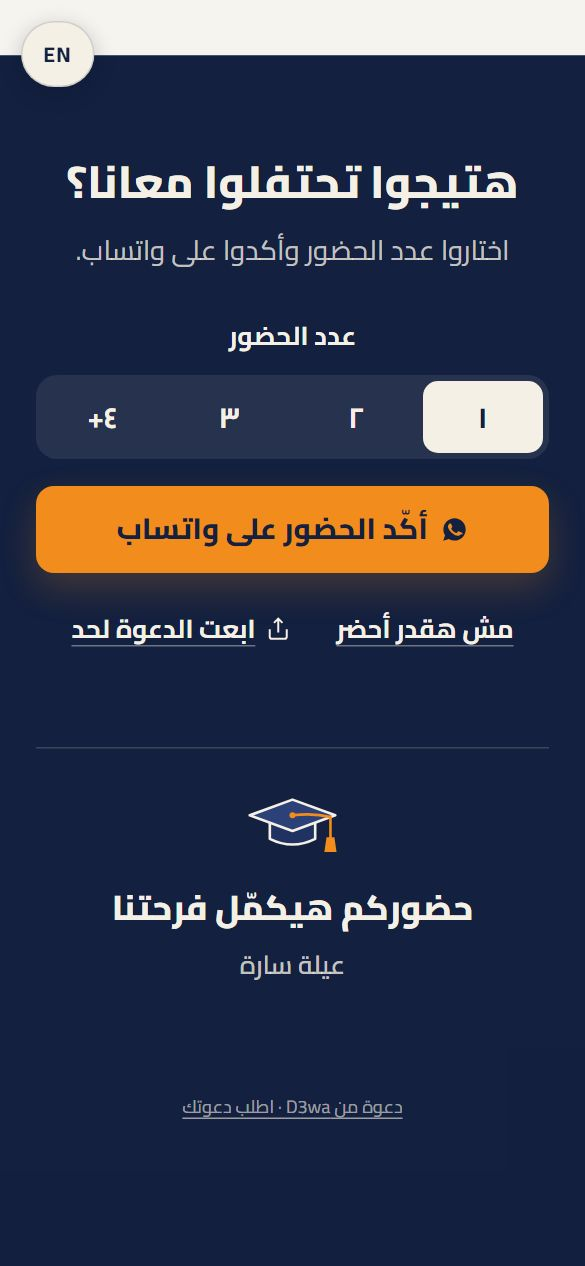
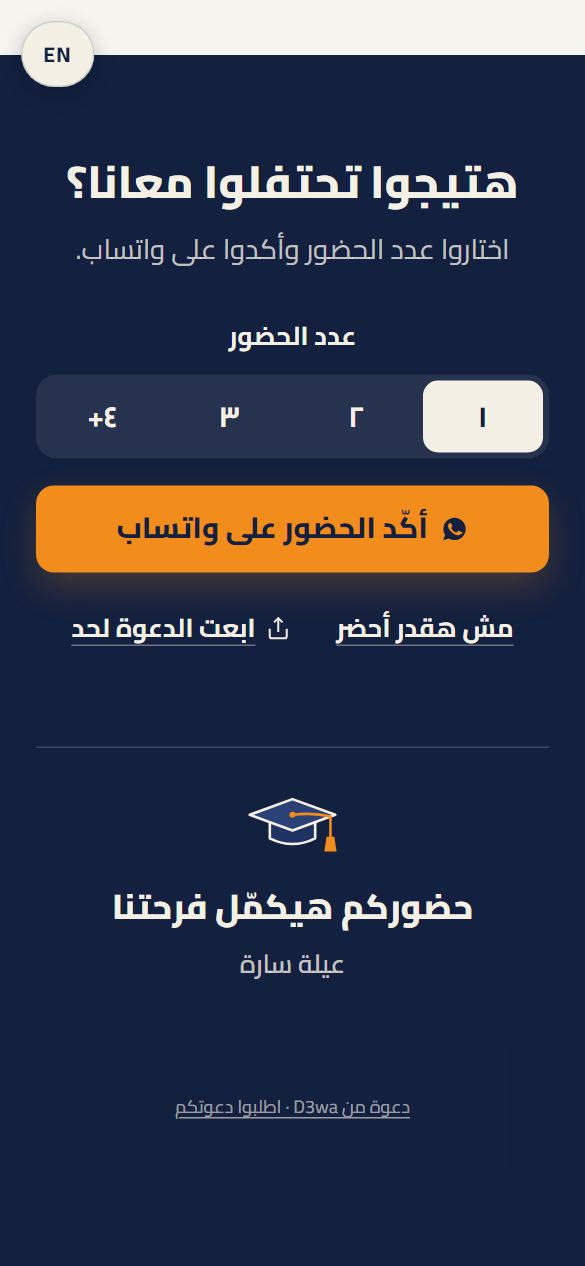
Council round 3 fixes: Arabic summary line, Deco RSVP, small type
From the third council review (Claude Opus, 8.8/10):
- The checkout summary set the whole Arabic hint left-to-right with
  break-all, splitting words; only the URL is LTR now (bdi).
- Deco's yes/no RSVP pair overflowed its card at 390px after the type
  change; it stacks on phones.
- Product pages drop the floating WhatsApp button and use a shorter
  phone on mobile so "Try it here" clears the buy bar; the summary
  divider is one line.
- Every invitation's credit line addresses the couple in the plural,
  like the store. Graduation's Quranic brackets render in Amiri; Deco's
  date gets word spacing; Sahara's small English values move from
  Italiana to Cormorant and its welcome line no longer says sunset at
  8 PM; Garden's hero keeps off the vines; one Rustic line rewrapped.
- Swept all 12 templates in Arabic and English at 360 and 390px: no
  horizontal overflow.

diff --git a/demos/sahara.html b/demos/sahara.html
@@ -346,7 +346,7 @@ html.en .detail .lbl{font-size:15px;font-weight:600;letter-spacing:.04em}
   font-family:var(--ar-display);font-weight:500;
   font-size:clamp(21px,5.8vw,24px);line-height:1.45;color:var(--ink);
 }
-html.en .detail .val{font-family:var(--en-display);font-weight:400;font-size:clamp(21px,5.6vw,24px)}
+html.en .detail .val{font-family:"Cormorant Garamond",Georgia,serif;font-weight:500;font-size:clamp(21px,5.6vw,24px)}
 .detail .val small{display:block;font-family:var(--ar-body);font-weight:400;font-size:16px;color:var(--ink-soft);margin-top:2px}
 html.en .detail .val small{font-family:var(--en-serif);font-style:italic;font-weight:500;font-size:16.5px}
 .card-actions{display:flex;flex-direction:column;gap:10px;margin-top:20px}
@@ -384,7 +384,7 @@ html.en .btn{font-family:var(--en-serif);font-weight:600;font-size:17px;letter-s
 .note{max-width:30em;margin:0 auto}
 .note + .note{margin-top:26px;padding-top:26px;border-top:1px solid rgba(122,122,82,.2)}
 .h3{margin:0;font-family:var(--ar-display);font-weight:600;font-size:21px;line-height:1.5;color:var(--terra-deep)}
-html.en .h3{font-family:var(--en-display);font-weight:400;font-size:22px}
+html.en .h3{font-family:"Cormorant Garamond",Georgia,serif;font-weight:500;font-size:22px}
 .note p{margin:6px 0 0;color:var(--ink-soft)}
 .notes .h2 + .note{margin-top:22px}
 
@@ -794,8 +794,8 @@ html.en .intro-hint{font-family:var(--en-serif);font-weight:600;font-size:18px;l
     <div class="detail">
       <span class="lbl"><span class="t-ar">الوقت</span><span class="t-en">Time</span></span>
       <span class="val">
-        <span class="t-ar">٨:٠٠ مساءً<small>الاستقبال مع الغروب</small></span>
-        <span class="t-en">8:00 PM<small>Welcome at sunset</small></span>
+        <span class="t-ar">٨:٠٠ مساءً<small>الاستقبال على البحر</small></span>
+        <span class="t-en">8:00 PM<small>Welcome by the sea</small></span>
       </span>
     </div>
 
@@ -1390,7 +1390,7 @@ html.en .intro-hint{font-family:var(--en-serif);font-weight:600;font-size:18px;l
 })();
 </script>
 
-<p class="d3wa-credit" style="margin:0;padding:28px 16px 96px;text-align:center;font-size:12px;line-height:1.8;opacity:.6"><a href="../index.html" style="color:inherit;text-decoration:underline;text-underline-offset:3px"><span class="t-ar">دعوة من D3wa · اطلب دعوتك</span><span class="t-en">Invitation by D3wa. Order yours.</span></a></p>
+<p class="d3wa-credit" style="margin:0;padding:28px 16px 96px;text-align:center;font-size:12px;line-height:1.8;opacity:.6"><a href="../index.html" style="color:inherit;text-decoration:underline;text-underline-offset:3px"><span class="t-ar">دعوة من D3wa · اطلبوا دعوتكم</span><span class="t-en">Invitation by D3wa. Order yours.</span></a></p>
 <script src="../assets/demo-bar.js" defer></script>
 </body>
 </html>

diff --git a/demos/grad.html b/demos/grad.html
@@ -22,6 +22,7 @@
 <link rel="preconnect" href="https://fonts.googleapis.com">
 <link rel="preconnect" href="https://fonts.gstatic.com" crossorigin>
 <link rel="stylesheet" href="https://fonts.googleapis.com/css2?family=Cairo:wght@400;600;700;800;900&family=DM+Serif+Display:ital@0;1&display=swap">
+<link rel="stylesheet" href="https://fonts.googleapis.com/css2?family=Amiri&amp;text=%EF%B4%BE%EF%B4%BF&amp;display=swap">
 
 <style>
 /* ───────────  TOKENS — D3-012 Graduation: gown navy, varsity orange  ─────────── */
@@ -175,6 +176,7 @@ html.en .h2{font-family:var(--disp);font-weight:400;font-size:2rem;line-height:1
 .verse .v{text-wrap:balance;font-weight:800;font-size:1.75rem;line-height:1.7;color:var(--navy)}
 html.en .verse .v{font-family:var(--disp);font-style:italic;font-weight:400;font-size:1.875rem;line-height:1.3}
 .verse .src{display:block;margin-top:10px;font-size:.9375rem;font-weight:600;color:var(--ink-2)}
+.verse .orn{font-family:"Amiri",serif;font-weight:400}
 .verse .tick{display:block;width:44px;height:3px;margin:0 auto 22px;border-radius:2px;background:var(--orange)}
 
 /* schedule ledger */
@@ -456,7 +458,7 @@ body.intro-lock{overflow:hidden}
       <span class="tick" aria-hidden="true"></span>
       <blockquote>
         <p class="v">
-          <span class="t-ar">﴿وَقُل رَّبِّ زِدنِي عِلمًا﴾</span>
+          <span class="t-ar"><span class="orn">﴿</span>وَقُل رَّبِّ زِدنِي عِلمًا<span class="orn">﴾</span></span>
           <span class="t-en">“And say: my Lord, increase me in knowledge.”</span>
         </p>
       </blockquote>
@@ -969,7 +971,7 @@ body.intro-lock{overflow:hidden}
 })();
 </script>
 
-<p class="d3wa-credit" style="margin:0;padding:28px 16px 96px;text-align:center;font-size:12px;line-height:1.8;opacity:.6"><a href="../index.html" style="color:inherit;text-decoration:underline;text-underline-offset:3px"><span class="t-ar">دعوة من D3wa · اطلب دعوتك</span><span class="t-en">Invitation by D3wa. Order yours.</span></a></p>
+<p class="d3wa-credit" style="margin:0;padding:28px 16px 96px;text-align:center;font-size:12px;line-height:1.8;opacity:.6"><a href="../index.html" style="color:inherit;text-decoration:underline;text-underline-offset:3px"><span class="t-ar">دعوة من D3wa · اطلبوا دعوتكم</span><span class="t-en">Invitation by D3wa. Order yours.</span></a></p>
 <script src="../assets/demo-bar.js" defer></script>
 </body>
 </html>

diff --git a/demos/rustic.html b/demos/rustic.html
@@ -566,7 +566,7 @@ html.ar .intro-hint{font-size:17px;letter-spacing:0}
         <ul class="ag-list" id="agList">
           <li><span class="ag-time"><span class="t-ar">٦:٠٠ مساءً</span><span class="t-en">6:00 PM</span></span><span class="ag-what"><span class="t-ar">الاستقبال في الجنينة</span><span class="t-en">Welcome in the garden</span></span></li>
           <li><span class="ag-time"><span class="t-ar">٧:٠٠ مساءً</span><span class="t-en">7:00 PM</span></span><span class="ag-what"><span class="t-ar">الزفة</span><span class="t-en">The zaffa</span></span></li>
-          <li><span class="ag-time"><span class="t-ar">٨:٠٠ مساءً</span><span class="t-en">8:00 PM</span></span><span class="ag-what"><span class="t-ar">العشا تحت الأنوار</span><span class="t-en">Dinner under the lights</span></span></li>
+          <li><span class="ag-time"><span class="t-ar">٨:٠٠ مساءً</span><span class="t-en">8:00 PM</span></span><span class="ag-what"><span class="t-ar">العشا تحت الأنوار</span><span class="t-en">Dinner under lights</span></span></li>
           <li><span class="ag-time"><span class="t-ar">٩:٣٠ مساءً</span><span class="t-en">9:30 PM</span></span><span class="ag-what"><span class="t-ar">التورتة والرقص</span><span class="t-en">Cake and dancing</span></span></li>
         </ul>
       </div>
@@ -1003,7 +1003,7 @@ html.ar .intro-hint{font-size:17px;letter-spacing:0}
 })();
 </script>
 
-<p class="d3wa-credit" style="margin:0;padding:28px 16px 96px;text-align:center;font-size:12px;line-height:1.8;opacity:.6"><a href="../index.html" style="color:inherit;text-decoration:underline;text-underline-offset:3px"><span class="t-ar">دعوة من D3wa · اطلب دعوتك</span><span class="t-en">Invitation by D3wa. Order yours.</span></a></p>
+<p class="d3wa-credit" style="margin:0;padding:28px 16px 96px;text-align:center;font-size:12px;line-height:1.8;opacity:.6"><a href="../index.html" style="color:inherit;text-decoration:underline;text-underline-offset:3px"><span class="t-ar">دعوة من D3wa · اطلبوا دعوتكم</span><span class="t-en">Invitation by D3wa. Order yours.</span></a></p>
 <script>
 /* Long names shrink to fit the tag instead of running off it. */
 (function () {

diff --git a/assets/store.css b/assets/store.css
@@ -346,7 +346,7 @@ html.en .note p{line-height:1.5}
 .fab-wa{position:fixed;inset-inline-end:18px;bottom:18px;z-index:30;width:54px;height:54px;border-radius:50%;
   background:var(--wa);color:#fff;display:grid;place-items:center;box-shadow:0 10px 24px -8px rgba(14,122,63,.6)}
 .fab-wa svg{width:28px;height:28px}
-.has-buybar .fab-wa{bottom:92px}
+.has-buybar .fab-wa{display:none}
 
 /* ── breadcrumbs ── */
 .crumbs{font-size:14px;color:var(--kohl-2);padding-top:26px}
@@ -406,6 +406,7 @@ html.en .note p{line-height:1.5}
 @media (max-width:900px){
   .pdp{grid-template-columns:1fr;padding-top:16px}
   .pdp-media{position:static}
+  .pdp-stage .phone{width:min(260px,62vw)}
 }
 .buybar{position:fixed;inset-inline:0;bottom:0;z-index:35;background:var(--sugar);border-top:1px solid var(--line);
   padding:12px var(--gut);display:none;align-items:center;gap:14px;box-shadow:0 -10px 30px -18px rgba(38,25,31,.4)}
@@ -491,13 +492,15 @@ html:not(.en) .ltr-in{text-align:right}
 .sum-top img{width:52px;aspect-ratio:9/16;object-fit:cover;object-position:top;border-radius:5px;background:var(--almond)}
 .sum-top b{display:block;font:600 21px/1.25 var(--disp)}
 .sum-top small{color:var(--kohl-2);font-size:13.5px}
-.sum dl{margin:12px 0 0;display:grid;grid-template-columns:1fr auto;gap:8px 12px;font-size:15px}
+.sum dl{margin:12px 0 0;display:grid;grid-template-columns:1fr auto;gap:8px 0;font-size:15px}
+.sum dd{padding-inline-start:12px}
 .sum dt{color:var(--kohl-2)}
 .sum dd{margin:0;text-align:end}
 .sum .tot{border-top:1px solid var(--line);padding-top:12px;margin-top:4px;font-weight:600;color:var(--kohl)}
-.sum .tot dd{font:600 24px/1.1 var(--disp)}
+.sum dd.tot{font:600 24px/1.1 var(--disp)}
 .sum .due{color:var(--wa);font-weight:500}
-.sum .slug{margin:14px 0 0;font-size:13.5px;color:var(--kohl-2);direction:ltr;text-align:start;word-break:break-all}
+.sum .slug{margin:14px 0 0;font-size:13.5px;line-height:1.7;color:var(--kohl-2)}
+.sum .slug bdi{word-break:break-all}
 .sum .slug u{color:var(--kohl);text-decoration-color:var(--gold-d)}
 .pv{background:var(--almond);border-radius:var(--r);padding:22px 0 16px;position:relative}
 .pv .phone{width:min(260px,70vw)}

diff --git a/demos/deco.html b/demos/deco.html
@@ -234,7 +234,7 @@ html:not(.en) .mono>.t-ar{gap:11px}
   letter-spacing:.2em;text-indent:.2em;text-transform:uppercase;
   color:var(--ivory);
 }
-.cover-date .t-ar{font-family:var(--kufi);font-size:1.25em;font-weight:500}
+.cover-date .t-ar{font-family:var(--kufi);font-size:1.25em;font-weight:500;word-spacing:.3em}
 .cover-date::before,.cover-date::after{
   content:"";flex:none;width:6px;height:6px;transform:rotate(45deg);
   background:linear-gradient(180deg,#F5E1A4,#B8860B);
@@ -548,6 +548,9 @@ html:not(.en) .chip{font-family:var(--kufi);font-weight:500;font-size:15px}
 
 @media (max-width:359px){
   .names .t-en{letter-spacing:.05em;text-indent:.05em}
+}
+/* the yes/no pair needs ~420px side by side in Arabic; stack it on phones */
+@media (max-width:430px){
   .rsvp-row,.pair{display:flex;flex-direction:column}
 }
 @media (prefers-reduced-motion: reduce){
@@ -1309,7 +1312,7 @@ html:not(.en) .chip{font-family:var(--kufi);font-weight:500;font-size:15px}
 })();
 </script>
 
-<p class="d3wa-credit" style="margin:0;padding:28px 16px 96px;text-align:center;font-size:12px;line-height:1.8;opacity:.6"><a href="../index.html" style="color:inherit;text-decoration:underline;text-underline-offset:3px"><span class="t-ar">دعوة من D3wa · اطلب دعوتك</span><span class="t-en">Invitation by D3wa. Order yours.</span></a></p>
+<p class="d3wa-credit" style="margin:0;padding:28px 16px 96px;text-align:center;font-size:12px;line-height:1.8;opacity:.6"><a href="../index.html" style="color:inherit;text-decoration:underline;text-underline-offset:3px"><span class="t-ar">دعوة من D3wa · اطلبوا دعوتكم</span><span class="t-en">Invitation by D3wa. Order yours.</span></a></p>
 <script src="../assets/demo-bar.js" defer></script>
 </body>
 </html>

diff --git a/demos/garden.html b/demos/garden.html
@@ -140,7 +140,7 @@ section{position:relative;padding:var(--gap) 22px}
       rgba(156,175,136,.3) 86%,
       rgba(95,113,97,.42) 100%);
 }
-.hero .inner{display:flex;flex-direction:column;align-items:center;text-align:center;gap:clamp(18px,4.6vw,26px)}
+.hero .inner{display:flex;flex-direction:column;align-items:center;text-align:center;gap:clamp(18px,4.6vw,26px);padding-inline:clamp(22px,7vw,40px)}
 
 .eyebrow{
   margin:0;color:var(--euc);
@@ -1391,7 +1391,7 @@ html.en .pb-line{font-weight:500}
 })();
 </script>
 
-<p class="d3wa-credit" style="margin:0;padding:28px 16px 96px;text-align:center;font-size:12px;line-height:1.8;opacity:.6"><a href="../index.html" style="color:inherit;text-decoration:underline;text-underline-offset:3px"><span class="t-ar">دعوة من D3wa · اطلب دعوتك</span><span class="t-en">Invitation by D3wa. Order yours.</span></a></p>
+<p class="d3wa-credit" style="margin:0;padding:28px 16px 96px;text-align:center;font-size:12px;line-height:1.8;opacity:.6"><a href="../index.html" style="color:inherit;text-decoration:underline;text-underline-offset:3px"><span class="t-ar">دعوة من D3wa · اطلبوا دعوتكم</span><span class="t-en">Invitation by D3wa. Order yours.</span></a></p>
 <script src="../assets/demo-bar.js" defer></script>
 </body>
 </html>

diff --git a/demos/henna.html b/demos/henna.html
@@ -1311,7 +1311,7 @@ html.en .intro-tap{font-family:var(--en-serif);font-weight:700}
 })();
 </script>
 
-<p class="d3wa-credit" style="margin:0;padding:28px 16px 96px;text-align:center;font-size:12px;line-height:1.8;opacity:.6"><a href="../index.html" style="color:inherit;text-decoration:underline;text-underline-offset:3px"><span class="t-ar">دعوة من D3wa · اطلب دعوتك</span><span class="t-en">Invitation by D3wa. Order yours.</span></a></p>
+<p class="d3wa-credit" style="margin:0;padding:28px 16px 96px;text-align:center;font-size:12px;line-height:1.8;opacity:.6"><a href="../index.html" style="color:inherit;text-decoration:underline;text-underline-offset:3px"><span class="t-ar">دعوة من D3wa · اطلبوا دعوتكم</span><span class="t-en">Invitation by D3wa. Order yours.</span></a></p>
 <script src="../assets/demo-bar.js" defer></script>
 </body>
 </html>

diff --git a/demos/modern.html b/demos/modern.html
@@ -992,7 +992,7 @@ html.en .mono .t-ar,html:not(.en) .mono .t-en{display:none}
 })();
 </script>
 
-<p class="d3wa-credit" style="margin:0;padding:28px 16px 96px;text-align:center;font-size:12px;line-height:1.8;opacity:.6"><a href="../index.html" style="color:inherit;text-decoration:underline;text-underline-offset:3px"><span class="t-ar">دعوة من D3wa · اطلب دعوتك</span><span class="t-en">Invitation by D3wa. Order yours.</span></a></p>
+<p class="d3wa-credit" style="margin:0;padding:28px 16px 96px;text-align:center;font-size:12px;line-height:1.8;opacity:.6"><a href="../index.html" style="color:inherit;text-decoration:underline;text-underline-offset:3px"><span class="t-ar">دعوة من D3wa · اطلبوا دعوتكم</span><span class="t-en">Invitation by D3wa. Order yours.</span></a></p>
 <script src="../assets/demo-bar.js" defer></script>
 </body>
 </html>

diff --git a/demos/emerald.html b/demos/emerald.html
@@ -1313,7 +1313,7 @@ html.no-scroll,html.no-scroll body{overflow:hidden}
 })();
 </script>
 
-<p class="d3wa-credit" style="margin:0;padding:28px 16px 96px;text-align:center;font-size:12px;line-height:1.8;opacity:.6"><a href="../index.html" style="color:inherit;text-decoration:underline;text-underline-offset:3px"><span class="t-ar">دعوة من D3wa · اطلب دعوتك</span><span class="t-en">Invitation by D3wa. Order yours.</span></a></p>
+<p class="d3wa-credit" style="margin:0;padding:28px 16px 96px;text-align:center;font-size:12px;line-height:1.8;opacity:.6"><a href="../index.html" style="color:inherit;text-decoration:underline;text-underline-offset:3px"><span class="t-ar">دعوة من D3wa · اطلبوا دعوتكم</span><span class="t-en">Invitation by D3wa. Order yours.</span></a></p>
 <script src="../assets/demo-bar.js" defer></script>
 </body>
 </html>

diff --git a/demos/navy.html b/demos/navy.html
@@ -1294,7 +1294,7 @@ html.no-scroll,html.no-scroll body{overflow:hidden}
 })();
 </script>
 
-<p class="d3wa-credit" style="margin:0;padding:28px 16px 96px;text-align:center;font-size:12px;line-height:1.8;opacity:.6"><a href="../index.html" style="color:inherit;text-decoration:underline;text-underline-offset:3px"><span class="t-ar">دعوة من D3wa · اطلب دعوتك</span><span class="t-en">Invitation by D3wa. Order yours.</span></a></p>
+<p class="d3wa-credit" style="margin:0;padding:28px 16px 96px;text-align:center;font-size:12px;line-height:1.8;opacity:.6"><a href="../index.html" style="color:inherit;text-decoration:underline;text-underline-offset:3px"><span class="t-ar">دعوة من D3wa · اطلبوا دعوتكم</span><span class="t-en">Invitation by D3wa. Order yours.</span></a></p>
 <script src="../assets/demo-bar.js" defer></script>
 </body>
 </html>

diff --git a/demos/lotus.html b/demos/lotus.html
@@ -1168,7 +1168,7 @@ html.en .intro-hint{font-weight:700}
 })();
 </script>
 
-<p class="d3wa-credit" style="margin:0;padding:28px 16px 96px;text-align:center;font-size:12px;line-height:1.8;opacity:.6"><a href="../index.html" style="color:inherit;text-decoration:underline;text-underline-offset:3px"><span class="t-ar">دعوة من D3wa · اطلب دعوتك</span><span class="t-en">Invitation by D3wa. Order yours.</span></a></p>
+<p class="d3wa-credit" style="margin:0;padding:28px 16px 96px;text-align:center;font-size:12px;line-height:1.8;opacity:.6"><a href="../index.html" style="color:inherit;text-decoration:underline;text-underline-offset:3px"><span class="t-ar">دعوة من D3wa · اطلبوا دعوتكم</span><span class="t-en">Invitation by D3wa. Order yours.</span></a></p>
 <script src="../assets/demo-bar.js" defer></script>
 </body>
 </html>

diff --git a/demos/rose.html b/demos/rose.html
@@ -1027,7 +1027,7 @@ html.ar .intro-hint{font-weight:600}
 })();
 </script>
 
-<p class="d3wa-credit" style="margin:0;padding:28px 16px 96px;text-align:center;font-size:12px;line-height:1.8;opacity:.6"><a href="../index.html" style="color:inherit;text-decoration:underline;text-underline-offset:3px"><span class="t-ar">دعوة من D3wa · اطلب دعوتك</span><span class="t-en">Invitation by D3wa. Order yours.</span></a></p>
+<p class="d3wa-credit" style="margin:0;padding:28px 16px 96px;text-align:center;font-size:12px;line-height:1.8;opacity:.6"><a href="../index.html" style="color:inherit;text-decoration:underline;text-underline-offset:3px"><span class="t-ar">دعوة من D3wa · اطلبوا دعوتكم</span><span class="t-en">Invitation by D3wa. Order yours.</span></a></p>
 <script src="../assets/demo-bar.js" defer></script>
 </body>
 </html>
